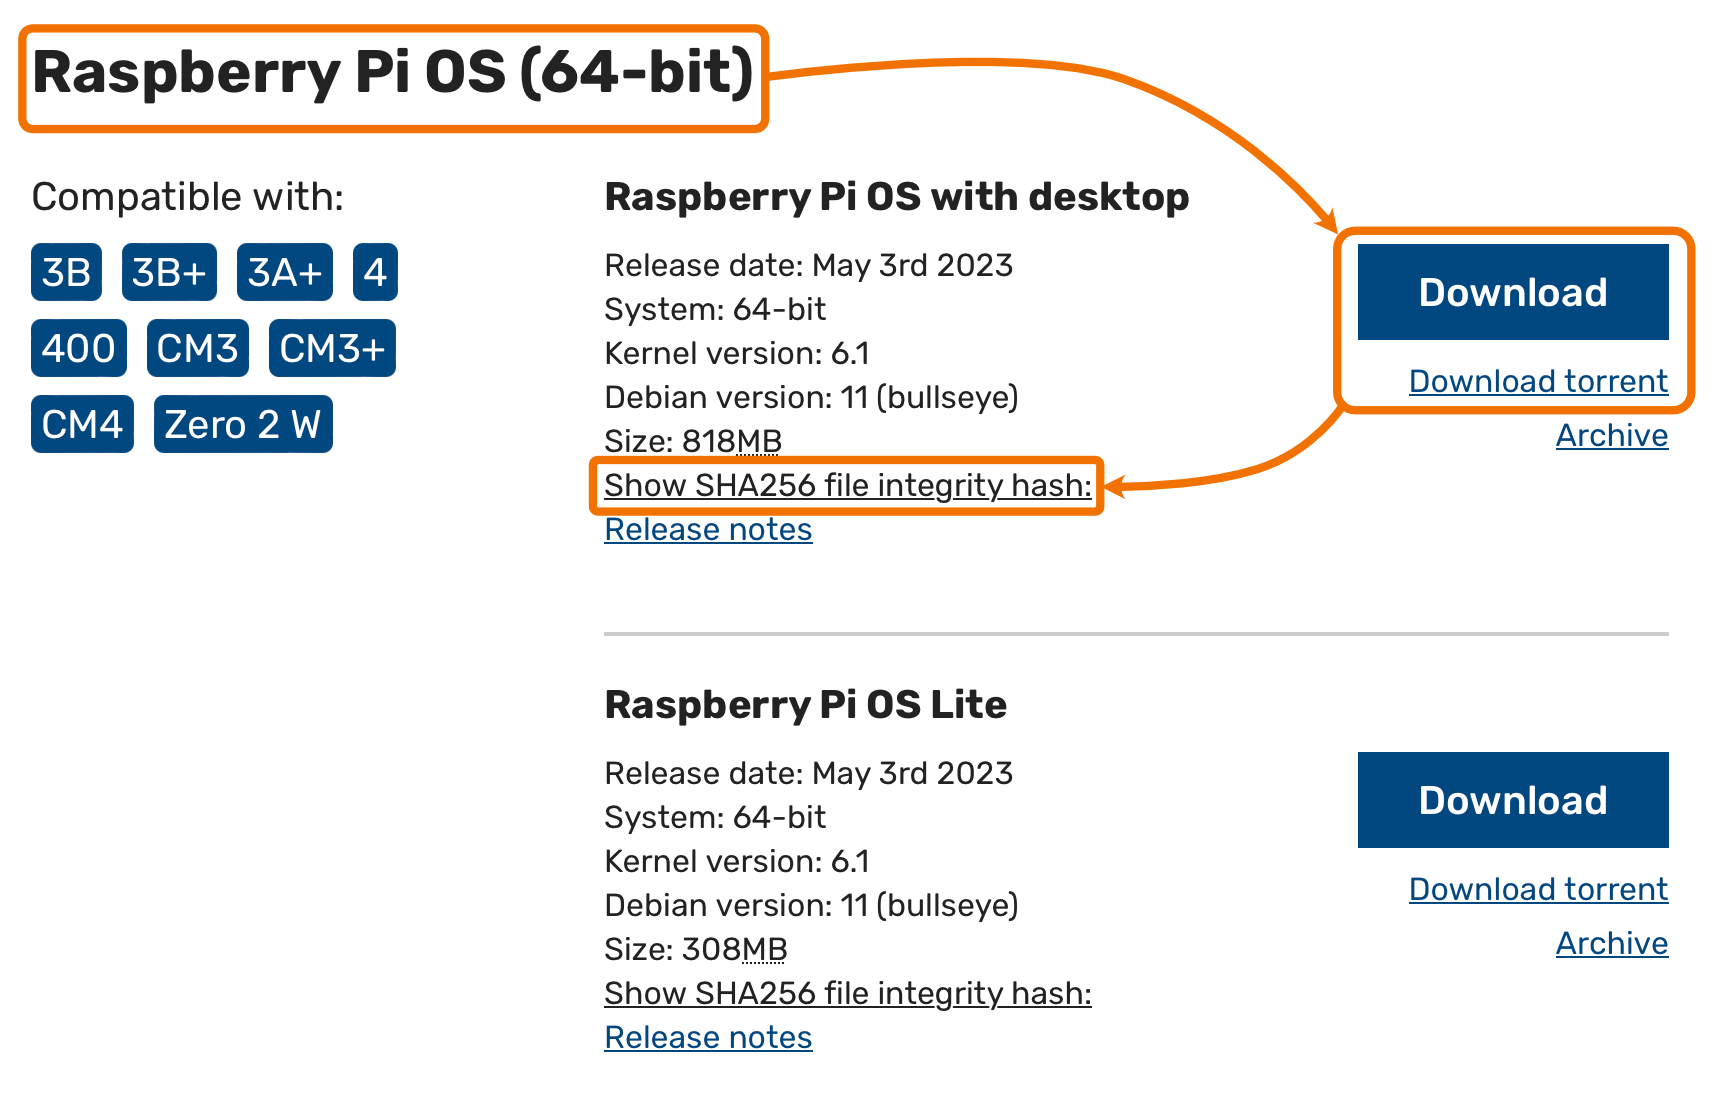
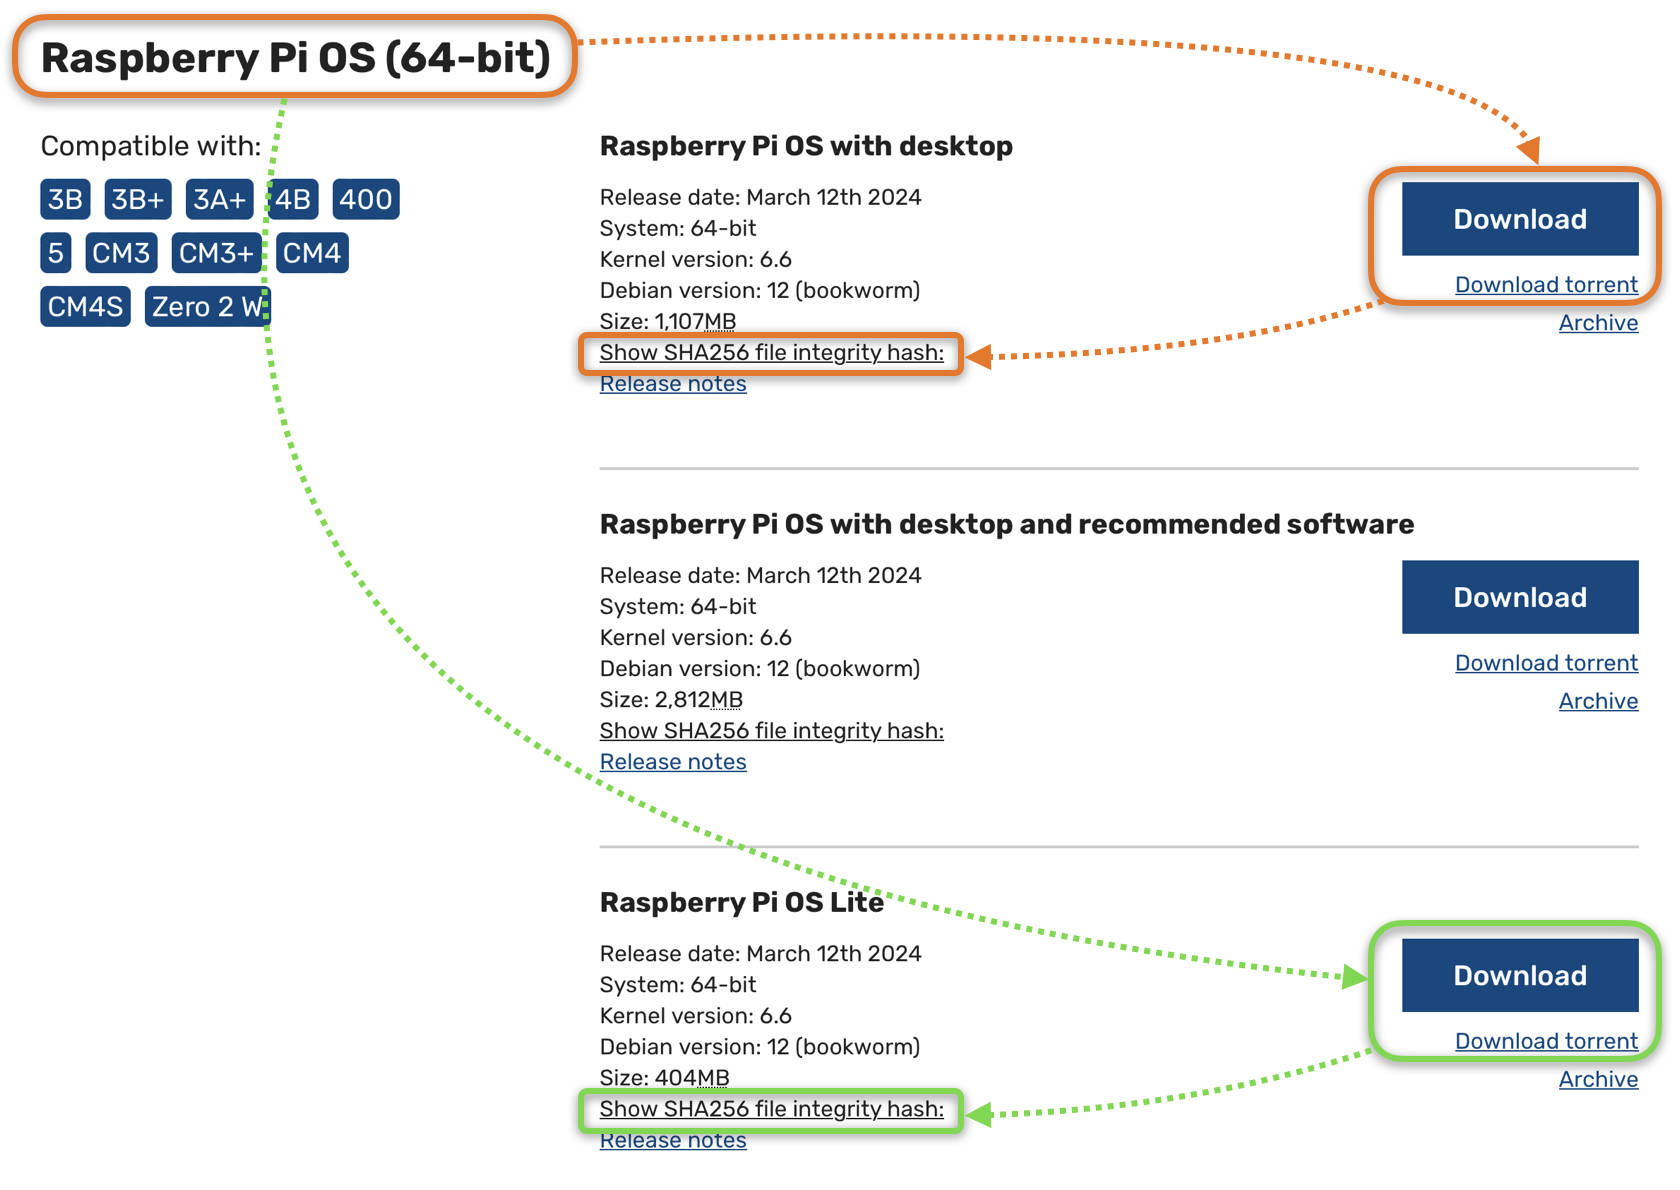
documentation revisions
Rewrite Raspberry Pi Imager section of main README to account for GUI
changes.

Update screen capture of releases page for 2024-03-12 and explain pros
and cons of Desktop vs Lite image variants.

diff --git a/README.md b/README.md
@@ -62,10 +62,10 @@ Guillemets (the characters <kbd>«</kbd> and <kbd>»</kbd>&nbsp;) are used throu
 	$ ssh «user»@«hostname»
 	```
 
-	This syntax means you should replace the entire placeholder, including the guillemets, with the actual value:
+	This syntax means you should replace the entire placeholder, including the guillemets, with the actual value. Example:
 
 	```
-	$ ssh pi@iot-hub
+	$ ssh pi@raspberrypi.local
 	```
 
 * **with** other forms of surrounding quote mark. Example:
@@ -96,16 +96,29 @@ This process is intended for first-time users. No configuration is required. The
 <a name="downloadImager"></a>
 ### Download Raspberry Pi Imager
 
-Follow the instructions at [Raspberry Pi Imager](https://www.raspberrypi.com/software/) to download and install the Raspberry Pi Imager application onto your support machine.
+Follow the instructions at [Raspberry Pi Imager](https://www.raspberrypi.com/software/) to download and install the Raspberry Pi Imager application onto your support machine. If you launch the Imager and it prompts you to update, you should do that.
 
 <a name="chooseOSForImager"></a>
 ### Download Raspberry Pi OS image
+
+Although [Raspberry Pi Imager](#downloadImager) can download current Raspberry Pi OS images dynamically, I strongly recommend downloading images to your support host beforehand. 
+
+1. You can be certain which image you are starting from. The alternatives displayed on the releases page (URL below) are laid out sensibly in groups, whereas Raspberry Pi Imager's <kbd>CHOOSE OS</kbd> dialog both co-mingles and distributes the alternatives between menu levels.
+2. You can retain downloaded image files for as long as you need them and, providing you also save the hashes, you can be 100% certain they have not changed. This means you repeat a build as many times as necessary (eg audit requirements, testing various scenarios, building multiple Pis alike) without any risk of the base operating system changing underneath you. Although it is possible to find historical images at the [Raspberry Pi OS downloads](http://downloads.raspberrypi.org) page, you have to know exactly what you are looking for, you have to take it on faith that the image hasn't changed, **and** you still have to download the desired image anyway.
 
 The most recent Raspberry Pi OS can always be found at:
 
 * [https://www.raspberrypi.com/software/operating-systems](https://www.raspberrypi.com/software/operating-systems/)
 
-I always start from "64-bit Raspberry Pi OS with desktop" so that is what I recommend. At the time of writing, that was:
+Unless you have specialised requirements, there is no point installing any 32-bit system. I always start from "Raspberry Pi OS (64-bit)" so that is what I recommend. You are building a *server class* device (rather than a general purpose *desktop class* device) so your practical options are:
+
+1. <a name="desktopOS"></a>Raspberry Pi OS with Desktop. This retains the ability to enable the Desktop (a screen connected to the HDMI port displays a Graphical User Interface) or enable connection over VNC.
+
+	> PiBuilder disables both by default. See [why PiBuilder disables RealVNC and Desktop](./docs/vnc.md#theStory) if you want to understand the pros and cons of re-enabling the Desktop and/or VNC.
+
+2. <a name="liteOS"></a>Raspberry Pi OS Lite. Choosing this version essentially commits you to a console (a screen connected to the HDMI port displays a Command Line Interface), and you won't have the ability to connect over VNC without doing extra work. However, you get a lean, mean system which is well-optimised for running IOTstack.
+
+Either image will work so, ultimately, it's your Raspberry Pi and your choice.
 
 ![download 64-bit Bullseye](./images/download-raspbian.jpg)
 
@@ -113,7 +126,7 @@ Images for the Raspberry Pi are downloaded as `.xz` files (previously these were
 
 1. downloading the image *directly* via the <kbd>Download</kbd> button; or
 2. downloading the image *indirectly* by clicking the "Download torrent" link.
-
+ 
 It is always a good idea to check the SHA256 signature on each image. It gives you assurance that the image has not been tampered with and wasn't corrupted during download. The magic incantation is:
 
 ``` bash
@@ -122,18 +135,22 @@ $ IMAGE=«pathToDownloadedFile»
 $ shasum -a 256 -c <<< "$SIGNATURE *$IMAGE"
 ```
 
-You get the «hash» by clicking the `Show SHA256 file integrity hash` link. Here's an example run. It assumes the `.xz` fule
+You get the «hash» by clicking the `Show SHA256 file integrity hash` link. Here's an example run. It assumes the `.xz` file:
 
 ``` bash
-$ SIGNATURE=e7c0c89db32d457298fbe93195e9d11e3e6b4eb9e0683a7beb1598ea39a0a7aa
-$ IMAGE=2023-05-03-raspios-bullseye-arm64.img.xz
+$ SIGNATURE=ffe864dec3f6ee183f1fa553c496753febd6ed5f7393cbe24ae00f5fcba7b7d1
+$ IMAGE=2024-03-12-raspios-bookworm-arm64-lite.img.xz
 $ shasum -a 256 -c <<< "$SIGNATURE *$IMAGE"
-2023-05-03-raspios-bullseye-arm64.img.xz: OK
+2024-03-12-raspios-bookworm-arm64-lite.img.xz: OK
 ```
 
 If you don't see "OK", start over!
 
 > If your first attempt was a *direct* download of the image, consider trying the *indirect* method using a torrent.
+
+Tip:
+
+* Once you have verified that a hash matches an image, consider saving the hash in a text file alongside the image. That way, you always have the means to re-verify that the image is unchanged.
 
 <a name="burnImage"></a>
 ### Transfer Raspberry Pi OS to SD or SSD
@@ -142,20 +159,27 @@ The steps are:
 
 1. Connect your media (SD or SSD) to your support host (eg Mac/PC). 
 2. Launch Raspberry Pi Imager.
-3. Click <kbd>CHOOSE OS</kbd>.
-4. Scroll down and choose "Use custom".
-5. Select the `.xz` (or `.zip`) you downloaded earlier.
-6. Click <kbd>CHOOSE STORAGE</kbd>
-7. Select the media connected in step 1. *Be careful with this step!*
-8. Click the "gear" icon at the bottom, right of the window to open the "Advanced options" panel:
+3. Click <kbd>CHOOSE DEVICE</kbd>, then
 
-	![Raspberry Pi Imager Advanced Options](./images/imager-advanced-options.png)
+	* Select your hardware platform.
+
+4. Click <kbd>CHOOSE OS</kbd>, then
+
+	* Scroll down and choose "Use custom".
+	* Select the `.xz` (or `.zip`) you downloaded earlier.
+
+5. Click <kbd>CHOOSE STORAGE</kbd>, then
+
+	* Select the media connected in step 1. *Be careful with this step!*
+
+6. Click "NEXT".
+7. Click "EDIT SETTINGS". This opens the "OS Customisation" panel at the "GENERAL" tab <!--A-->&#x1F1E6;:
+
+	![Raspberry Pi Imager Customisation dialog General tab](./images/imager-custom-general.jpg)
 
 	Unless you have good reasons to do otherwise, I recommend:
 
-	- Open the "Image customization options" popup menu &#x1F1E6; and choose "to always use". If you select that option then all of your settings will be remembered across launches of Raspberry Pi Imager. In other words, you will only have to configure Raspberry Pi Imager **once**.
-
-	- Enable &#x1F1E7;, then enter a name for your host at <a name="firstBootHostName"></a>&#x1F1E8;.
+	- Enable <!--B-->&#x1F1E7;, then enter a name for your host at <a name="firstBootHostName"></a><!--C-->&#x1F1E8;.
 
 		I **strongly** recommend using the name "raspberrypi" (one word, all lower-case) in this panel, and then changing the name later when you run the first PiBuilder script. These instructions assume you accept this advice.
 
@@ -169,35 +193,43 @@ The steps are:
 
 		2. You will have to remember to come back into this panel each time you run Raspberry Pi Imager.
 
-	- Enable &#x1F1E9; and &#x1F1EA;. This turns on SSH access.
-	- Enable &#x1F1EB;, then:
+	- Enable user credentials at <!--D-->&#x1F1E9;, then:
 
-		- Enter a username at &#x1F1EC;. You can either stick with the traditional "pi" user or choose a different name. It is tricky to change the username once a system has been built so, if you don't like "pi", you should change it now.
+		- Enter a username at <!--E-->&#x1F1EA;. You can either stick with the traditional "pi" user or choose a different name. It is tricky to change the username once a system has been built so, if you don't like "pi", you should change it now.
 
 			The choice you make here will become the username for *all* of your Raspberry Pis. If you want a different username for each of your Raspberry Pis then you will have to remember to come back into this panel each time you run Raspberry Pi Imager.
 
 			This documentation uses "«username»" to represent the choice you make here.
 
-		- Set a strong password at <a name="firstBootUserPassword"></a>&#x1F1ED;. Please don't use the old default password of "raspberry". Although your user password is easy to change later, the PiBuilder 01 script no longer does that for you because it assumes you have already chosen a strong password.
+		- Set a strong password at <a name="firstBootUserPassword"></a><!--F-->&#x1F1EB;. Please don't use the old default password of "raspberry". Although your user password is easy to change later, the PiBuilder 01 script no longer does that for you because it assumes you have already chosen a strong password.
 
-	- If you want the Raspberry Pi's WiFi interface to be active, enable &#x1F1EE;, then:
+	- If you want the Raspberry Pi's WiFi interface to be active, enable <!--G-->&#x1F1EC;, then:
 
-		- enter your WiFi network name in &#x1F1EF;.
-		- enter your WiFi password in &#x1F1F0;.
-		- use the popup menu &#x1F1F1; to select your country code.
+		- enter your WiFi network name in <!--H-->&#x1F1ED;.
+		- enter your WiFi password in <!--I-->&#x1F1EE;.
+		- use the popup menu <!--J-->&#x1F1EF; to select your country code.
 
 			> Your support host may pre-populate some or all of these fields.
 
-	- Enable &#x1F1F2; and then use the popup menus &#x1F1F3; and &#x1F1F4; to set appropriate values.
-	- Enable &#x1F1F5;.
-	- Click <kbd>SAVE</kbd> (&#x1F1F6;) to save your settings.
+	- Enable locale settings at <!--K-->&#x1F1F0; and then use the popup menus <!--L-->&#x1F1F1; and <!--M-->&#x1F1F2; to set appropriate values for your time zone and keyboard layout, respectively.
+	- Click <!--N-->&#x1F1F3; to switch to the "SERVICES" tab.
 
-9. Click <kbd>WRITE</kbd> and respond to any system prompts to transfer the prepared image to your media.
+	![Raspberry Pi Imager Customisation dialog Services tab](./images/imager-custom-services.jpg)
+
+	- Enable SSH at <!--Q-->&#x1F1F7; and select password authentication at <!--P-->&#x1F1F5;.
+	- Click <!--Q-->&#x1F1F6; to switch to the "OPTIONS" tab.
+
+	![Raspberry Pi Imager Customisation dialog Options tab](./images/imager-custom-options.jpg)
+	
+	- Enable "Eject media when finished" at <!--R-->&#x1F1F7;
+	- Click <kbd>SAVE</kbd> (<!--S-->&#x1F1F8;) to save your settings.
+
+9. Click <kbd>YES</kbd> and respond to any system prompts to transfer the prepared image to your media.
 
 <a name="bootRPi"></a>
 ### Boot your Raspberry Pi
 
-Transfer the media to your Raspberry Pi and apply power.
+Connect the media to your Raspberry Pi and apply power.
 
 A Raspberry Pi normally takes 20-30 seconds to boot. However, the first time you boot from a clean image it takes a bit longer (a minute or so). The longer boot time is explained by one-time setup code, such as generating host keys for SSH and expanding the root partition to fully occupy the available space on your media (SD or SSD). Be patient.
 
@@ -210,7 +242,7 @@ $ ping -c 1 raspberrypi.local
 Notes:
 
 * The name `raspberrypi` assumes you accepted the advice at [set hostname](#firstBootHostName). If you chose a different name, you will need to substitute that here.
-* The `.local` domain is reserved for multicast DNS and will be reachable on any available interface (Ethernet and/or WiFi).
+* The `.local` domain is reserved for multicast DNS and will be reachable on any available interface (Ethernet and/or WiFi). However, the mDNS name will not *resolve* until the Raspberry Pi has booted and starts advertising its presence. That's why the `-c 1` option (send 1 ping then stop) is being used.
 
 <a name="connectRPiSSH"></a>
 ### Connect to your Raspberry Pi using SSH
@@ -247,12 +279,22 @@ Notes:
 <a name="clonePiBuilder"></a>
 ### Clone PiBuilder onto your Raspberry Pi
 
-Once you are logged-in to your Raspberry Pi, clone the PiBuilder repository:
+Once you are logged-in to your Raspberry Pi:
+
+1. If you started from the [Raspberry Pi OS Lite](#liteOS) image, you will need to install `git`:
+
+	```
+	$ sudo apt update ; sudo apt install -y git
+	```
+	
+	`git` is pre-installed in the non-Lite images so you can skip this step if you started from the [Raspberry Pi OS with Desktop](#desktopOS) image.
+
+2. Clone the PiBuilder repository:
 
 
-``` bash
-$ git clone https://github.com/Paraphraser/PiBuilder.git ~/PiBuilder
-```
+	``` bash
+	$ git clone https://github.com/Paraphraser/PiBuilder.git ~/PiBuilder
+	```
 
 <a name="runScripts"></a>
 ### Run the PiBuilder scripts in order

diff --git a/CHANGELOG.md b/CHANGELOG.md
@@ -3,6 +3,8 @@
 * 2024-03-17
 
 	- Bump default version of docker-compose installed via script to v2.25.0.
+	- Rewrite Raspberry Pi Imager section of main README to account for GUI changes.
+	- Update screen capture of releases page for 2024-03-12 and explain pros and cons of Desktop vs Lite image variants.
 
 * 2024-03-08
 
